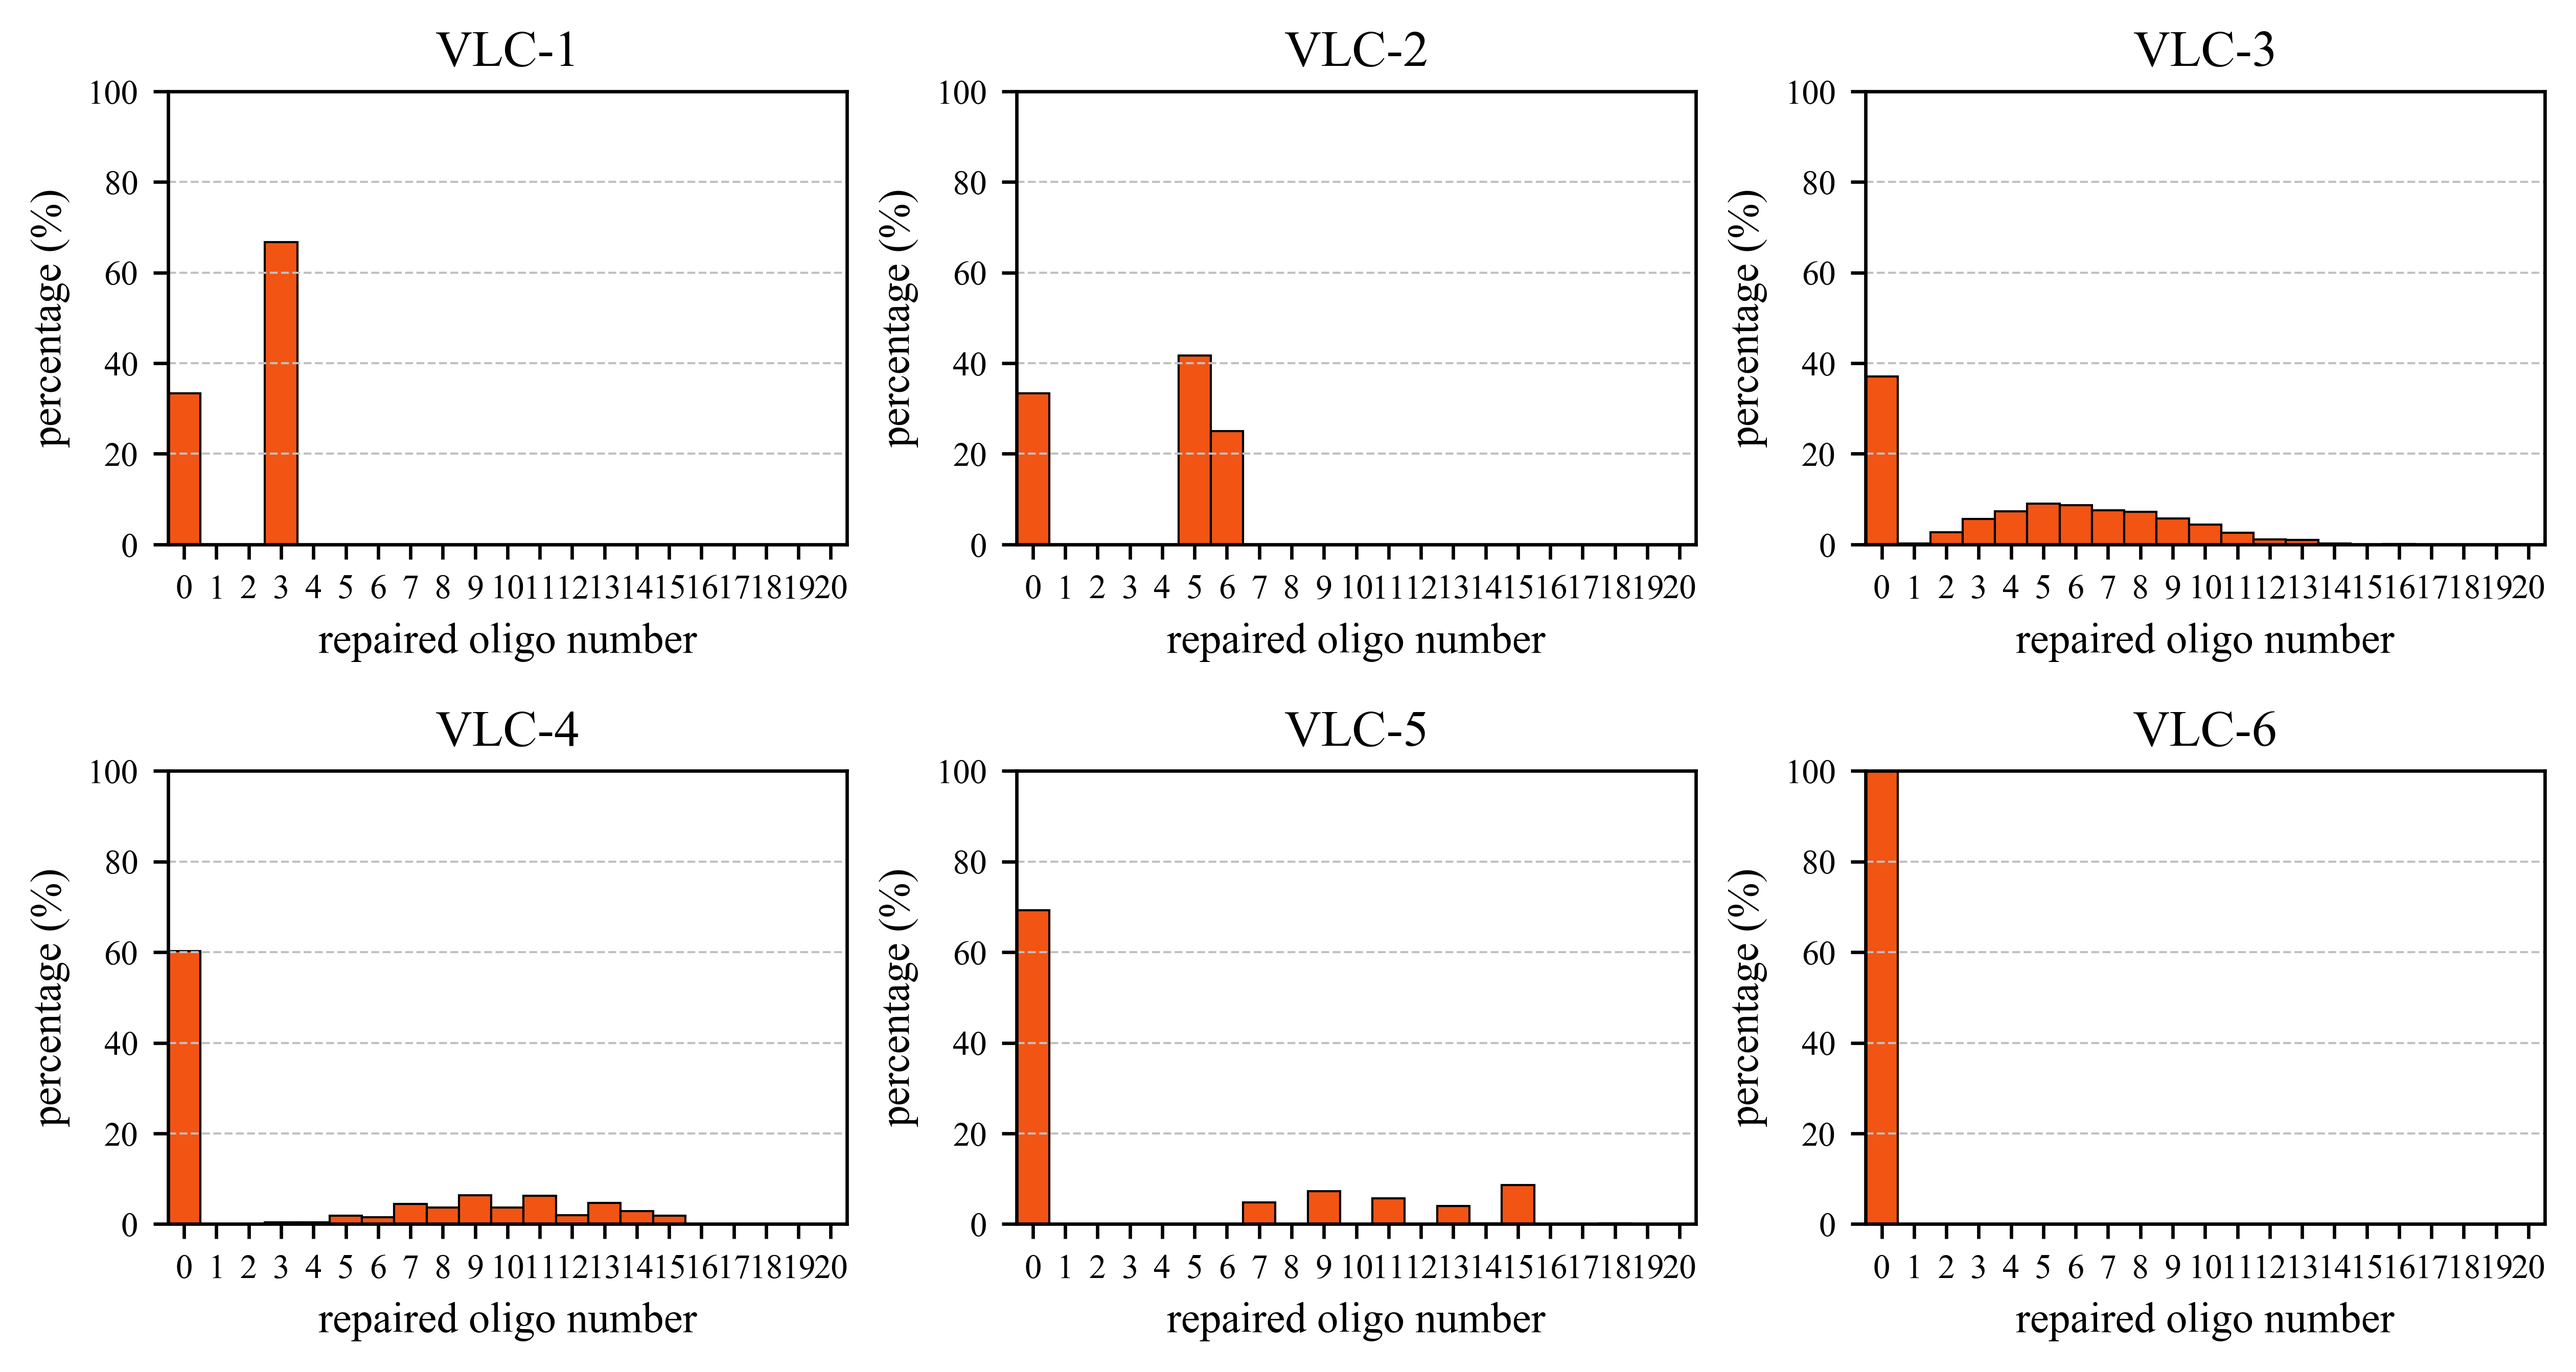
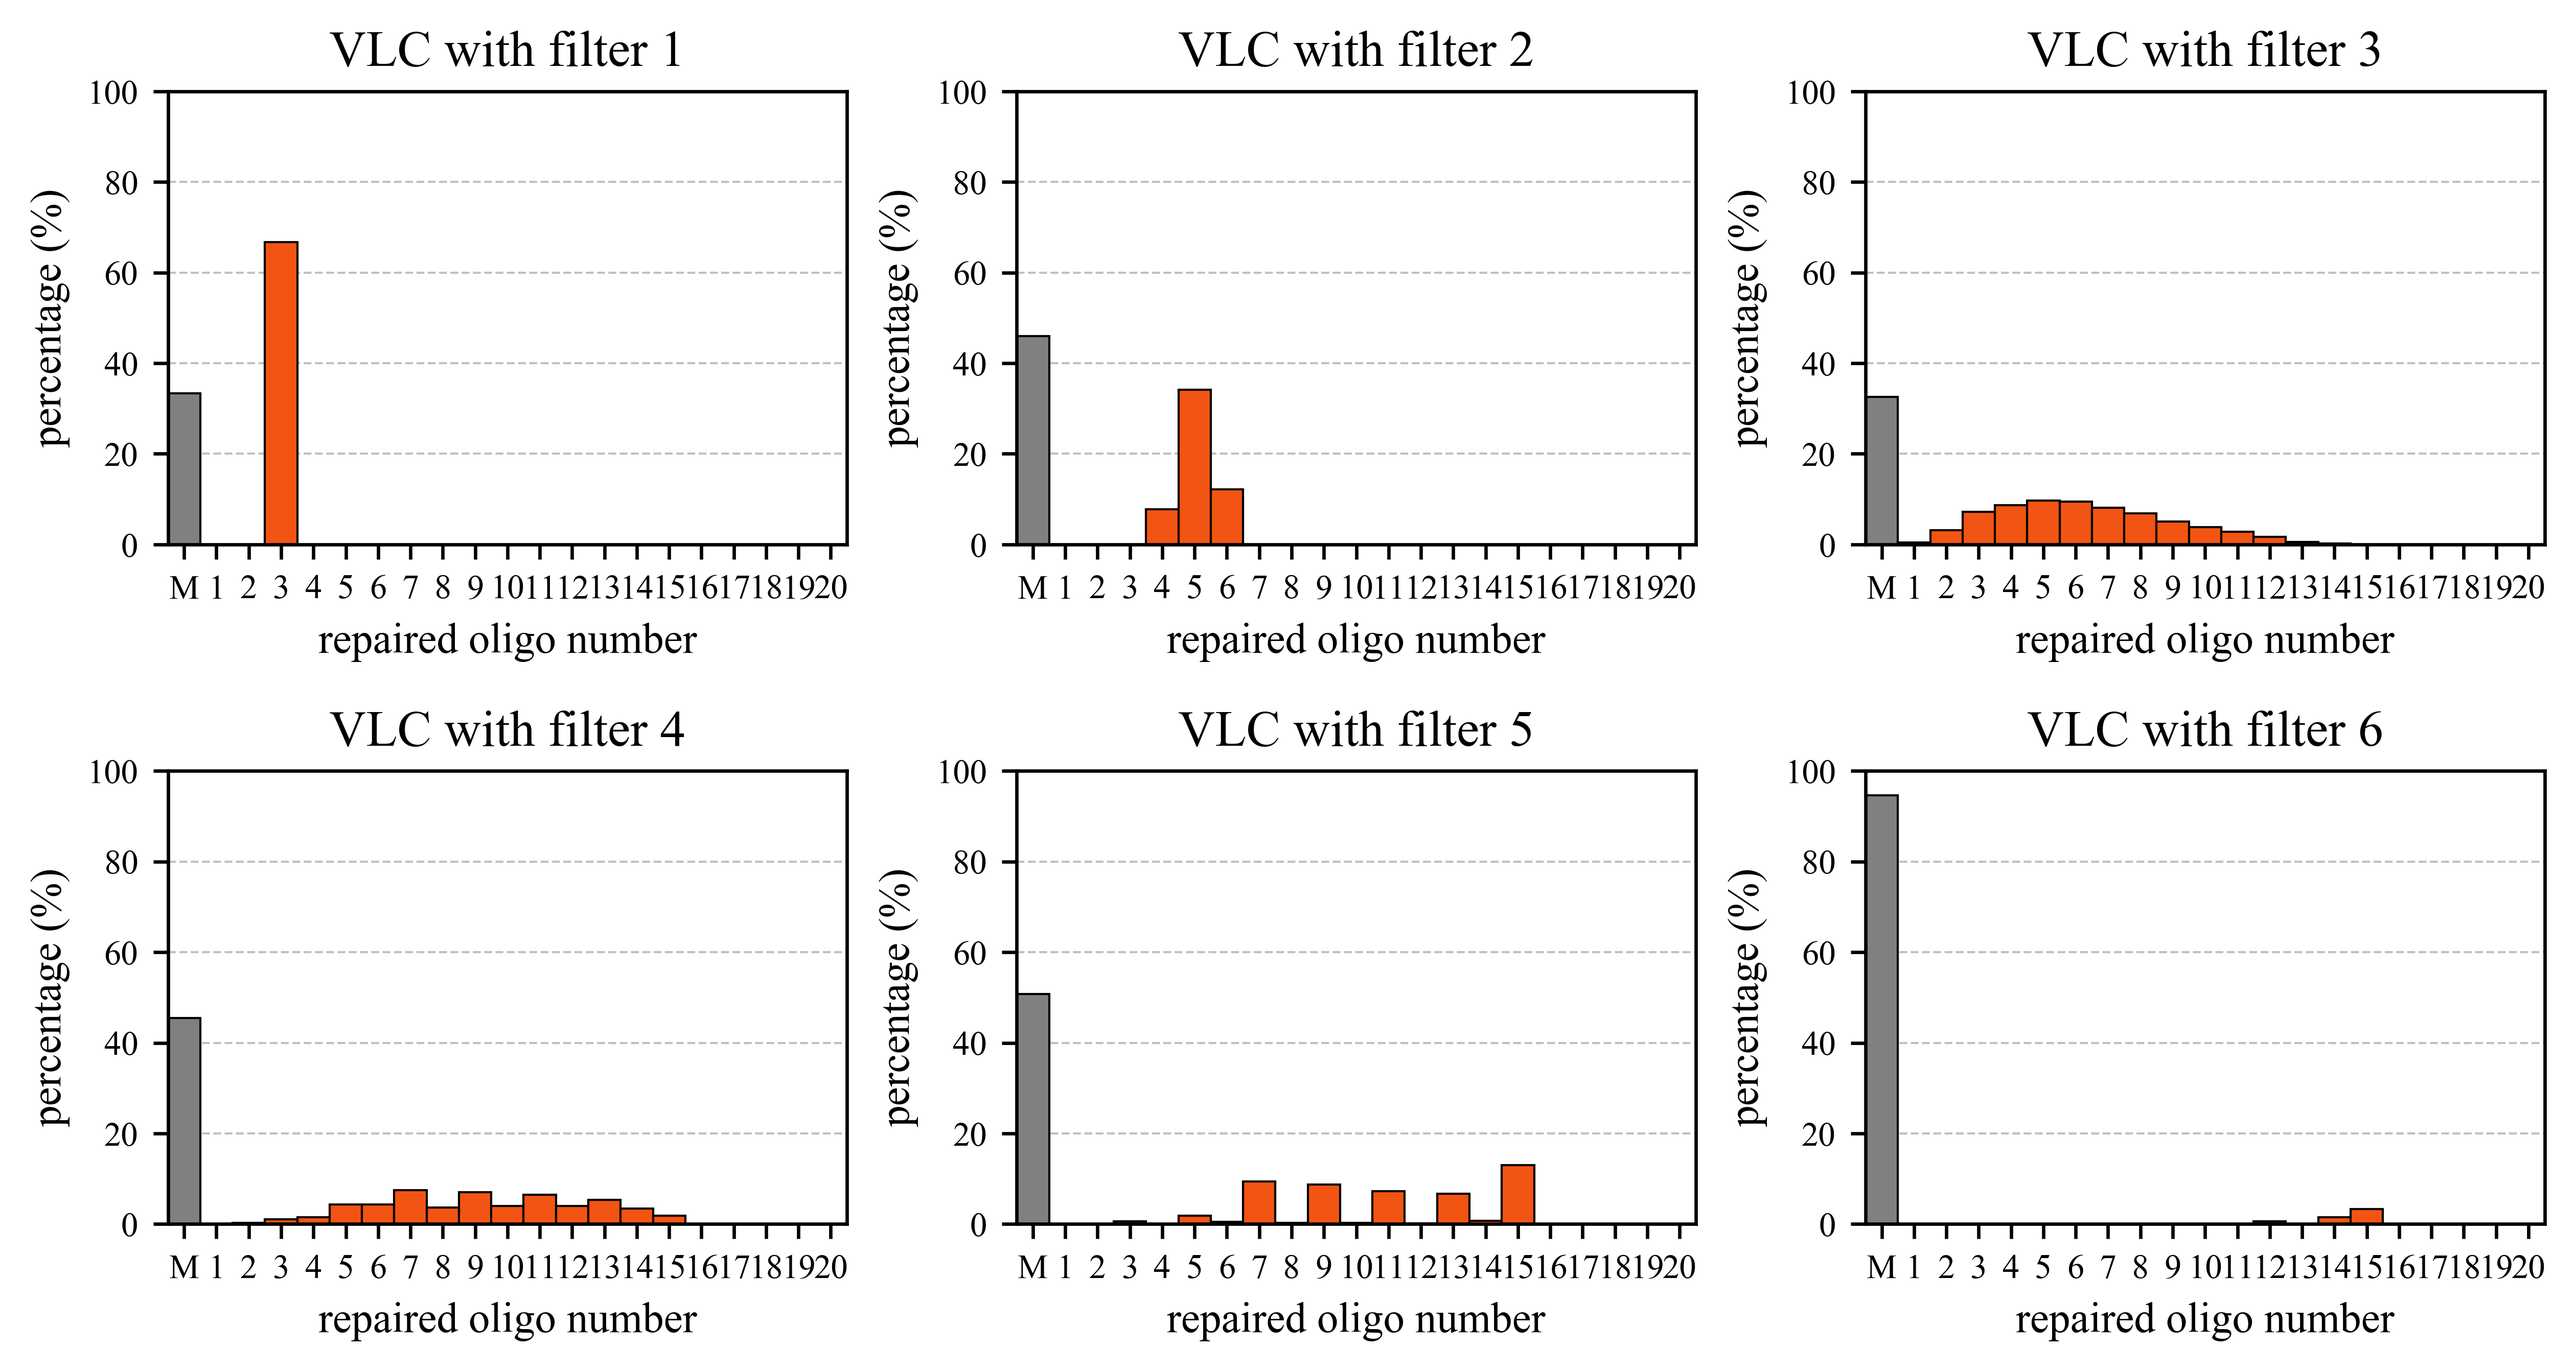
Update package
(1) add results
(2) modify evaluator for faster calculation

diff --git a/pipelines/step_2_transcode.py b/pipelines/step_2_transcode.py
@@ -4,8 +4,11 @@ __author__ = "Zhang, Haoling [hlzchn@gmail.com]"
 import os
 import random
 import numpy
+from matplotlib import pyplot
 from dsw.coder import encode, decode, obtain_fixed_length
+from dsw.evaluator import approximate_upper_bound
 from dsw.monitor import Monitor
+from pipelines import colors
 
 
 def transcode(name, graph, start_indices, task_seed, bit_length, test_time, fixed_length=None):
@@ -64,6 +67,61 @@ def transcode(name, graph, start_indices, task_seed, bit_length, test_time, fixe
     return nucleotide_numbers
 
 
+def display():
+    pyplot.figure(figsize=(10, 4.8))
+    pyplot.rc("font", family="Times New Roman")
+    pyplot.subplots_adjust(wspace=0.25, hspace=0.5)
+    for filter_index in [1, 2, 3, 4, 5, 6]:
+        pyplot.subplot(2, 3, filter_index)
+        pyplot.title("biochemical filter " + str(filter_index), fontsize=12)
+        d_bound = approximate_upper_bound(numpy.load(file="../entities/Default" + str(filter_index) + "[graph].npy"))
+        v_bound = approximate_upper_bound(numpy.load(file="../entities/VLC" + str(filter_index) + "[graph].npy"))
+        f_bound = approximate_upper_bound(numpy.load(file="../entities/FLC" + str(filter_index) + "[graph].npy"))
+
+        v_trans = numpy.load("../outputs/VLC-" + str(filter_index) + " transcode.npy")
+        f_trans = numpy.load("../outputs/FLC-" + str(filter_index) + " transcode.npy")
+
+        pyplot.text(x=0, y=d_bound + 0.01, s=str(round(d_bound, 3)), fontsize=8,
+                    horizontalalignment="center", verticalalignment="bottom")
+        pyplot.hlines(d_bound, -0.25, 0.25, color="black", linewidth=1.5)
+        pyplot.text(x=1, y=v_bound + 0.01, s=str(round(v_bound, 3)), fontsize=8,
+                    horizontalalignment="center", verticalalignment="bottom")
+        pyplot.hlines(v_bound, 0.75, 1.25, color=colors["variable"], linewidth=1.5)
+        pyplot.text(x=2, y=f_bound + 0.01, s=str(round(f_bound, 3)), fontsize=8,
+                    horizontalalignment="center", verticalalignment="bottom")
+        pyplot.hlines(f_bound, 1.75, 2.25, color=colors["fixed"], linewidth=1.5)
+
+        violin = pyplot.violinplot(dataset=v_trans, positions=[1], showextrema=False)
+        for patch in violin["bodies"]:
+            patch.set_facecolor(colors["variable"])
+            patch.set_edgecolor("black")
+            patch.set_linewidth(0.5)
+            patch.set_alpha(1)
+        min_value, median, max_value = numpy.percentile(v_trans, [0, 50, 100])
+        pyplot.scatter([1], median, color=colors["variable"], s=5, linewidths=1, edgecolors="black", zorder=4)
+
+        violin = pyplot.violinplot(dataset=f_trans, positions=[2], showextrema=False)
+        for patch in violin["bodies"]:
+            patch.set_facecolor(colors["fixed"])
+            patch.set_edgecolor("black")
+            patch.set_linewidth(0.5)
+            patch.set_alpha(1)
+        min_value, median, max_value = numpy.percentile(f_trans, [0, 50, 100])
+        pyplot.scatter([2], median, color=colors["fixed"], s=5, linewidths=1, edgecolors="black", zorder=4)
+
+        for value in [0.5, 0.6, 0.7, 0.8, 0.9, 1.0]:
+            pyplot.hlines(value, -0.5, 2.5, color="silver", linewidth=0.5, linestyle="--", zorder=0)
+        pyplot.xlabel("upper bound & actual performances", fontsize=10)
+        pyplot.ylabel("capacity", fontsize=10)
+        pyplot.xticks(range(3), ["benchmark", "FLC", "VLC"], fontsize=8)
+        pyplot.yticks([0.5, 0.6, 0.7, 0.8, 0.9, 1.0], [0.5, 0.6, 0.7, 0.8, 0.9, 1.0], fontsize=8)
+        pyplot.xlim(-0.5, 2.5)
+        pyplot.ylim(0.425, 1.075)
+    pyplot.savefig("../outputs/transcode statistics.png", format="png",
+                   bbox_inches="tight", transparent=True, dpi=600)
+    pyplot.close()
+
+
 if __name__ == "__main__":
     l, t = 100, 100
     for index in [1, 2, 3, 4, 5, 6]:
@@ -82,4 +140,5 @@ if __name__ == "__main__":
             numbers = transcode(name="VLC-" + str(index), graph=g, start_indices=v,
                                 task_seed=2021, bit_length=l, test_time=t)
             numbers = ((l * t) / numpy.array(numbers)) / 2
-            numpy.save(file="../outputs/VLC-" + str(index) + " transcode.npy", arr=numbers)
+    #         numpy.save(file="../outputs/VLC-" + str(index) + " transcode.npy", arr=numbers)
+    display()

diff --git a/pipelines/step_3_check_repair.py b/pipelines/step_3_check_repair.py
@@ -107,9 +107,11 @@ def calculate_totally(task_seed, graph_type, filter_index, wrong_location, bit_l
 
 
 def analyze():
+    print("Analyze the self-repair ability of each coder (created by DNA Spider-Web).")
     results = []
-    for screen_index in [1, 2, 3, 4, 5, 6]:
-        repaired_results = numpy.load(file="../outputs/FLC-" + str(screen_index) + " repair.npy")
+    for filter_index in [1, 2, 3, 4, 5, 6]:
+        print("Load fixed-length coder " + str(filter_index) + ".")
+        repaired_results = numpy.load(file="../outputs/FLC-" + str(filter_index) + " repair.npy")
         repaired_results = repaired_results.reshape(-1)
         counter = Counter(repaired_results.tolist())
         result = [0 for _ in range(21)]
@@ -123,14 +125,16 @@ def analyze():
     pyplot.subplots_adjust(wspace=0.25, hspace=0.5)
     for index, result in enumerate(results):
         pyplot.subplot(2, 3, index + 1)
-        pyplot.title("VLC-" + str(index + 1), fontsize=12)
-        pyplot.bar(range(21), result / numpy.sum(result), width=1, color=colors["fixed"], edgecolor="black",
+        pyplot.title("FLC with filter " + str(index + 1), fontsize=12)
+        result = result / numpy.sum(result)
+        pyplot.bar([0], [result[0]], width=1, color="gray", edgecolor="black", linewidth=0.5, zorder=1)
+        pyplot.bar(range(1, 21), result[1:], width=1, color=colors["fixed"], edgecolor="black",
                    linewidth=0.5, zorder=1)
         for value in [0.2, 0.4, 0.6, 0.8]:
             pyplot.hlines(value, -0.5, 20.5, color="silver", linewidth=0.5, linestyle="--", zorder=0)
         pyplot.xlabel("repaired oligo number", fontsize=10)
         pyplot.ylabel("percentage (%)", fontsize=10)
-        pyplot.xticks(range(21), range(21), fontsize=8)
+        pyplot.xticks(range(21), ["M"] + list(range(1, 21)), fontsize=8)
         pyplot.yticks([0, 0.2, 0.4, 0.6, 0.8, 1], ["0", "20", "40", "60", "80", "100"], fontsize=8)
         pyplot.xlim(-0.5, 20.5)
         pyplot.ylim(0, 1)
@@ -139,8 +143,9 @@ def analyze():
     pyplot.close()
 
     results = []
-    for screen_index in [1, 2, 3, 4, 5, 6]:
-        repaired_results = numpy.load(file="../outputs/VLC-" + str(screen_index) + " repair.npy")
+    for filter_index in [1, 2, 3, 4, 5, 6]:
+        print("Load variable-length coder " + str(filter_index) + ".")
+        repaired_results = numpy.load(file="../outputs/VLC-" + str(filter_index) + " repair.npy")
         repaired_results = repaired_results.reshape(-1)
         counter = Counter(repaired_results.tolist())
         result = [0 for _ in range(21)]
@@ -154,14 +159,16 @@ def analyze():
     pyplot.subplots_adjust(wspace=0.25, hspace=0.5)
     for index, result in enumerate(results):
         pyplot.subplot(2, 3, index + 1)
-        pyplot.title("VLC-" + str(index + 1), fontsize=12)
-        pyplot.bar(range(21), result / numpy.sum(result), width=1, color=colors["variable"], edgecolor="black",
+        pyplot.title("VLC with filter " + str(index + 1), fontsize=12)
+        result = result / numpy.sum(result)
+        pyplot.bar([0], [result[0]], width=1, color="gray", edgecolor="black", linewidth=0.5, zorder=1)
+        pyplot.bar(range(1, 21), result[1:], width=1, color=colors["variable"], edgecolor="black",
                    linewidth=0.5, zorder=1)
         for value in [0.2, 0.4, 0.6, 0.8]:
             pyplot.hlines(value, -0.5, 20.5, color="silver", linewidth=0.5, linestyle="--", zorder=0)
         pyplot.xlabel("repaired oligo number", fontsize=10)
         pyplot.ylabel("percentage (%)", fontsize=10)
-        pyplot.xticks(range(21), range(21), fontsize=8)
+        pyplot.xticks(range(21), ["M"] + list(range(1, 21)), fontsize=8)
         pyplot.yticks([0, 0.2, 0.4, 0.6, 0.8, 1], ["0", "20", "40", "60", "80", "100"], fontsize=8)
         pyplot.xlim(-0.5, 20.5)
         pyplot.ylim(0, 1)
@@ -172,6 +179,7 @@ def analyze():
 
 if __name__ == "__main__":
     examples()
+    print()
     for t in ["FLC", "VLC"]:
         for fi in [1, 2, 3, 4, 5, 6]:
             calculate_totally(task_seed=2021, graph_type=t, filter_index=fi,

diff --git a/pipelines/step_1_generate.py b/pipelines/step_1_generate.py
@@ -114,19 +114,19 @@ def display():
     x = numpy.array(range(6)) + 1
     pyplot.bar(x - 0.2, default[1], width=0.2, color=colors["default"], edgecolor="black", linewidth=0.5, zorder=1)
     for position, minimum, maximum in zip(x, default[0], default[2]):
-        pyplot.vlines(position - 0.2, minimum, maximum, color="black", linewidth=2, zorder=2)
-        pyplot.hlines(minimum, position - 0.25, position - 0.15, color="black", linewidth=2, zorder=2)
-        pyplot.hlines(maximum, position - 0.25, position - 0.15, color="black", linewidth=2, zorder=2)
+        pyplot.vlines(position - 0.2, minimum, maximum, color="black", linewidth=1.5, zorder=2)
+        pyplot.hlines(minimum, position - 0.25, position - 0.15, color="black", linewidth=1.5, zorder=2)
+        pyplot.hlines(maximum, position - 0.25, position - 0.15, color="black", linewidth=1.5, zorder=2)
     pyplot.bar(x, variable[1], width=0.2, color=colors["variable"], edgecolor="black", linewidth=0.5, zorder=1)
     for position, minimum, maximum in zip(x, variable[0], variable[2]):
-        pyplot.vlines(position, minimum, maximum, color="black", linewidth=2, zorder=2)
-        pyplot.hlines(minimum, position - 0.05, position + 0.05, color="black", linewidth=2, zorder=2)
-        pyplot.hlines(maximum, position - 0.05, position + 0.05, color="black", linewidth=2, zorder=2)
+        pyplot.vlines(position, minimum, maximum, color="black", linewidth=1.5, zorder=2)
+        pyplot.hlines(minimum, position - 0.05, position + 0.05, color="black", linewidth=1.5, zorder=2)
+        pyplot.hlines(maximum, position - 0.05, position + 0.05, color="black", linewidth=1.5, zorder=2)
     pyplot.bar(x + 0.2, fixed[1], width=0.2, color=colors["fixed"], edgecolor="black", linewidth=0.5, zorder=1)
     for position, minimum, maximum in zip(x, fixed[0], fixed[2]):
-        pyplot.vlines(position + 0.2, minimum, maximum, color="black", linewidth=2, zorder=2)
-        pyplot.hlines(minimum, position + 0.15, position + 0.25, color="black", linewidth=2, zorder=2)
-        pyplot.hlines(maximum, position + 0.15, position + 0.25, color="black", linewidth=2, zorder=2)
+        pyplot.vlines(position + 0.2, minimum, maximum, color="black", linewidth=1.5, zorder=2)
+        pyplot.hlines(minimum, position + 0.15, position + 0.25, color="black", linewidth=1.5, zorder=2)
+        pyplot.hlines(maximum, position + 0.15, position + 0.25, color="black", linewidth=1.5, zorder=2)
     for value in [0, 1, 2, 3, 4]:
         pyplot.hlines(value, 0.5, 6.5, color="silver", linewidth=0.5, linestyle="--", zorder=0)
     pyplot.xlabel("biochemical requirement index", fontsize=10)
@@ -142,11 +142,11 @@ def display():
 
 if __name__ == "__main__":
     bio_filters = {"1": LocalBioFilter(max_homopolymer_runs=2, max_gc_bias=0.0, ignore_motifs=cut_segments),
-                   "2": LocalBioFilter(max_homopolymer_runs=1),
+                   "2": LocalBioFilter(max_homopolymer_runs=1),  # Goldman method
                    "3": LocalBioFilter(max_homopolymer_runs=2, max_gc_bias=0.1, ignore_motifs=nanopore_segments),
                    "4": LocalBioFilter(max_homopolymer_runs=2, max_gc_bias=0.1),
                    "5": LocalBioFilter(max_homopolymer_runs=4, max_gc_bias=0.1),
-                   "6": LocalBioFilter(max_homopolymer_runs=3)}
+                   "6": LocalBioFilter(max_homopolymer_runs=3)}  # Church method
 
     for index, bio_filter in bio_filters.items():
         print("Calculate graph " + str(index) + ".")

diff --git a/dsw/evaluator.py b/dsw/evaluator.py
@@ -29,8 +29,9 @@ def approximate_upper_bound(graph):
     last_eigenvector, last_eigenvalue = numpy.ones(shape=(len(graph),), dtype=numpy.float), -math.inf
     while True:
         eigenvector = numpy.zeros_like(last_eigenvector)
-        for vertex_index, vertex in enumerate(graph):
-            eigenvector[vertex_index] = numpy.sum(last_eigenvector[vertex[vertex >= 0]])
+        for positions in graph.T:
+            eigenvector[numpy.where(positions >= 0)] += last_eigenvector[positions[positions >= 0]]
+
         eigenvalue = numpy.max(eigenvector)
         eigenvector = eigenvector / eigenvalue
         if last_eigenvalue is not None:

diff --git a/outputs/README.md b/outputs/README.md
@@ -4,7 +4,7 @@
 
 ---
 
-You can generate the results by yourself (step 2-4 in pipeline folder), it only takes several hours.
+You can generate the results (11GB) by yourself (step 2-4 in pipeline folder), it only takes several hours.
 
 
 Ignored file list:
